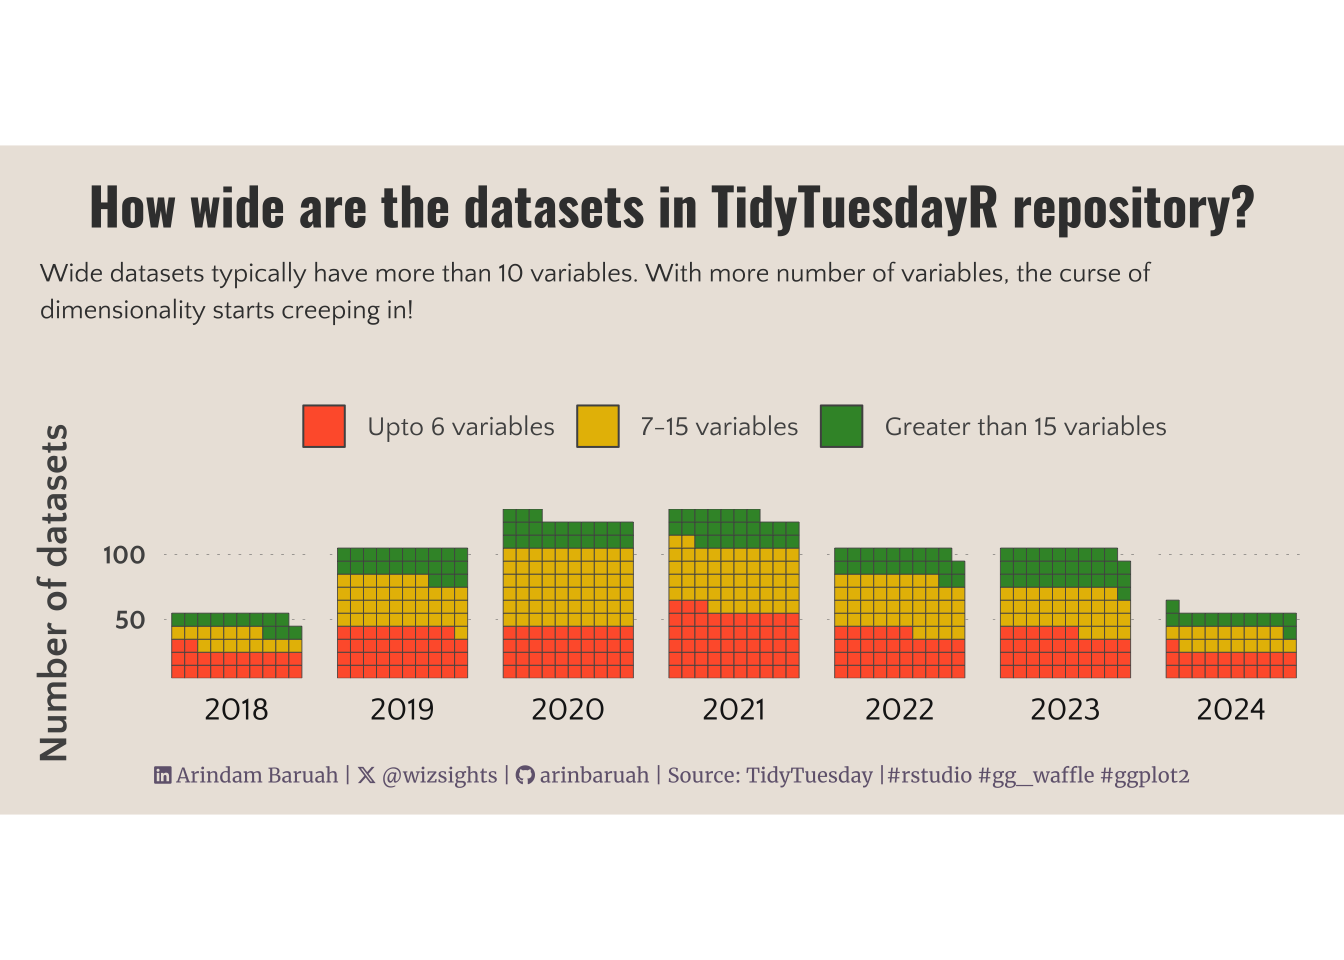
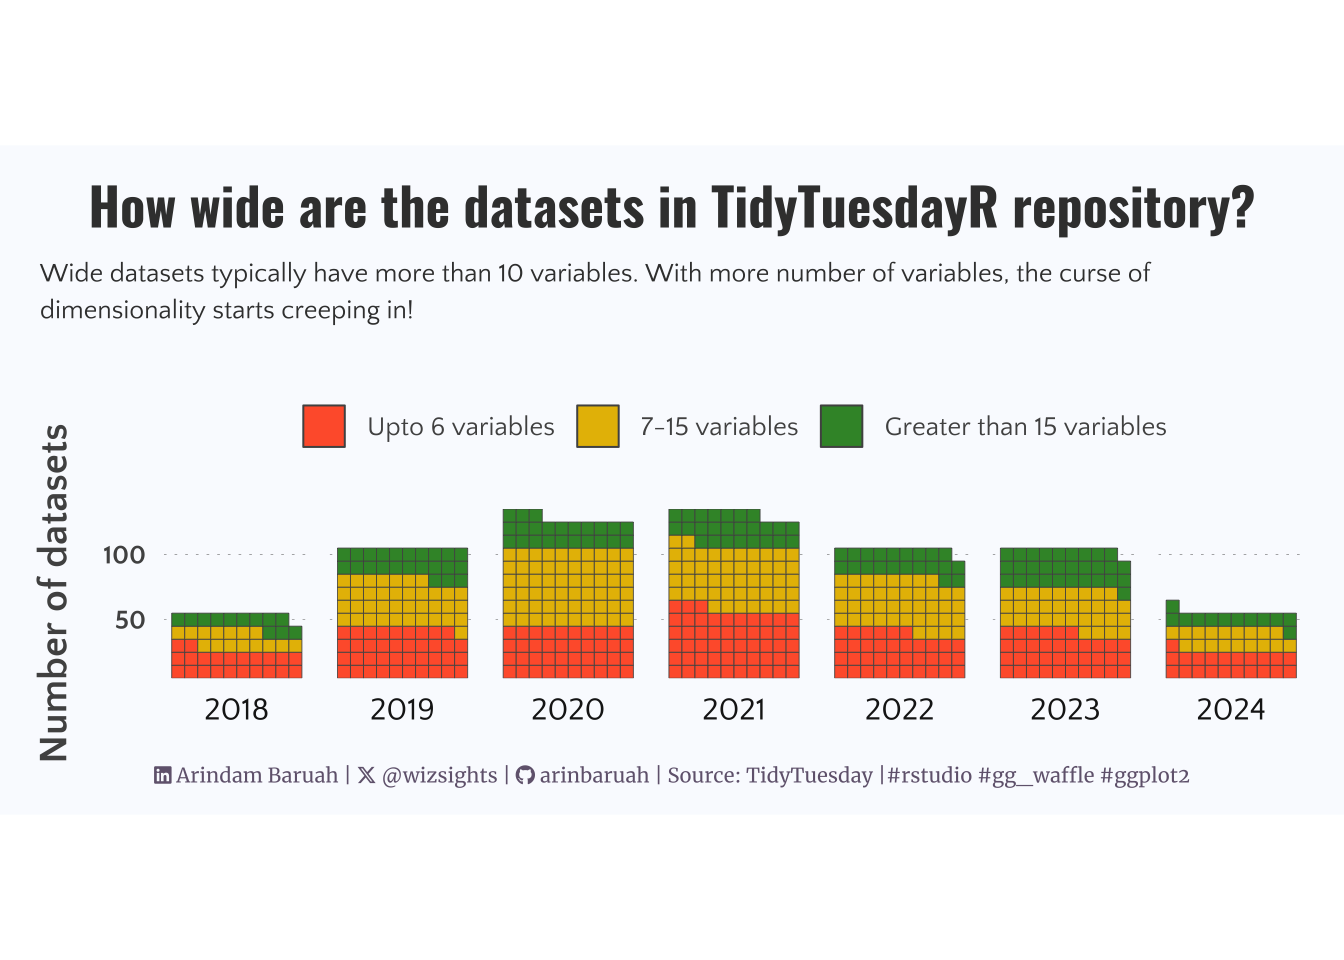
Plot aesthetics updated

diff --git a/July/post.html b/July/post.html
@@ -132,6 +132,24 @@ ul.task-list li input[type="checkbox"] {
 </div>
 </div>
 </div>
+<div class="cell">
+<div class="cell-output-display">
+<div>
+<figure class="figure">
+<p><img src="index_files/figure-html/unnamed-chunk-8-1.png" class="img-fluid figure-img" width="672"></p>
+</figure>
+</div>
+</div>
+</div>
+<div class="cell">
+<div class="cell-output-display">
+<div>
+<figure class="figure">
+<p><img src="index_files/figure-html/unnamed-chunk-9-1.png" class="img-fluid figure-img" width="672"></p>
+</figure>
+</div>
+</div>
+</div>
 </section>
 
 </main>
